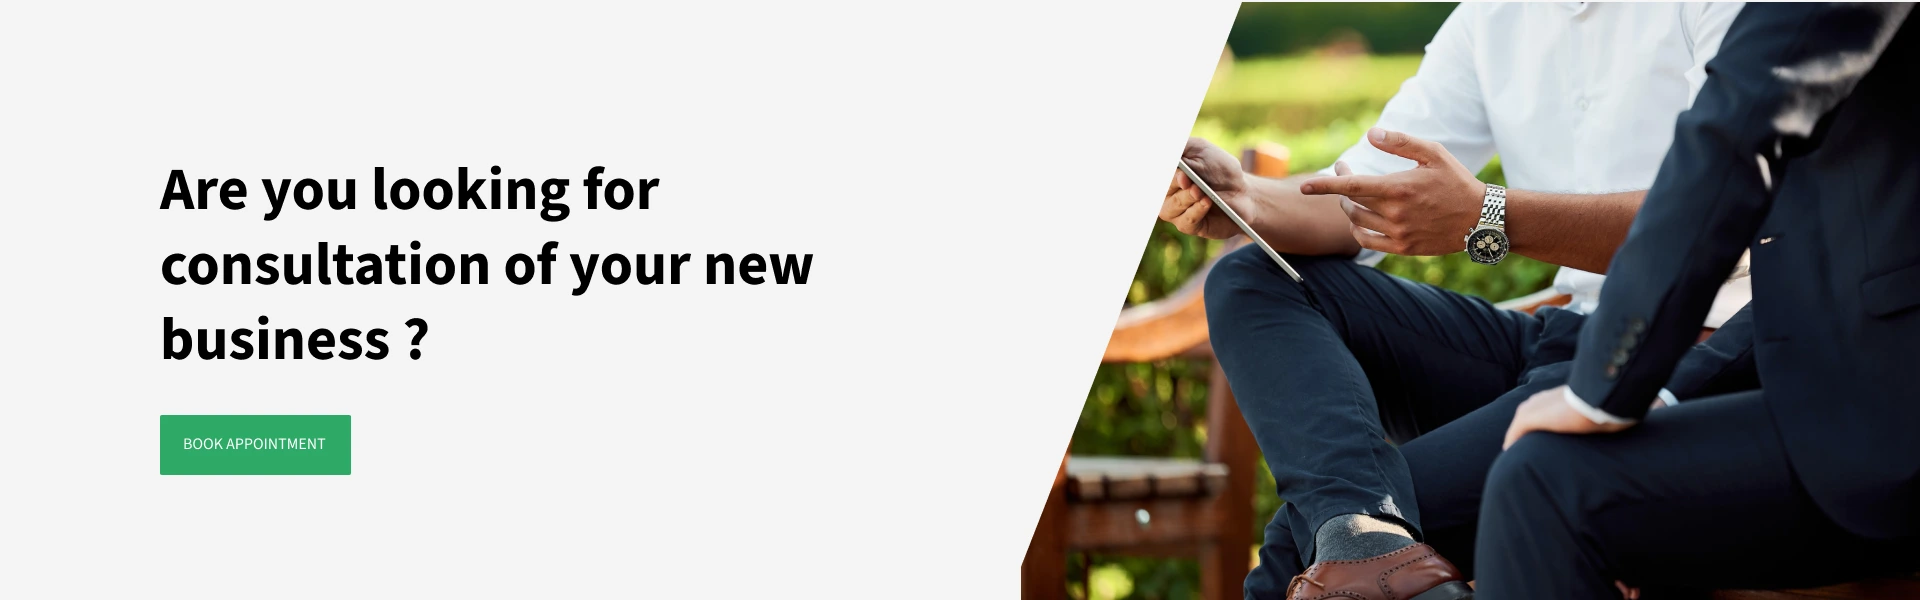
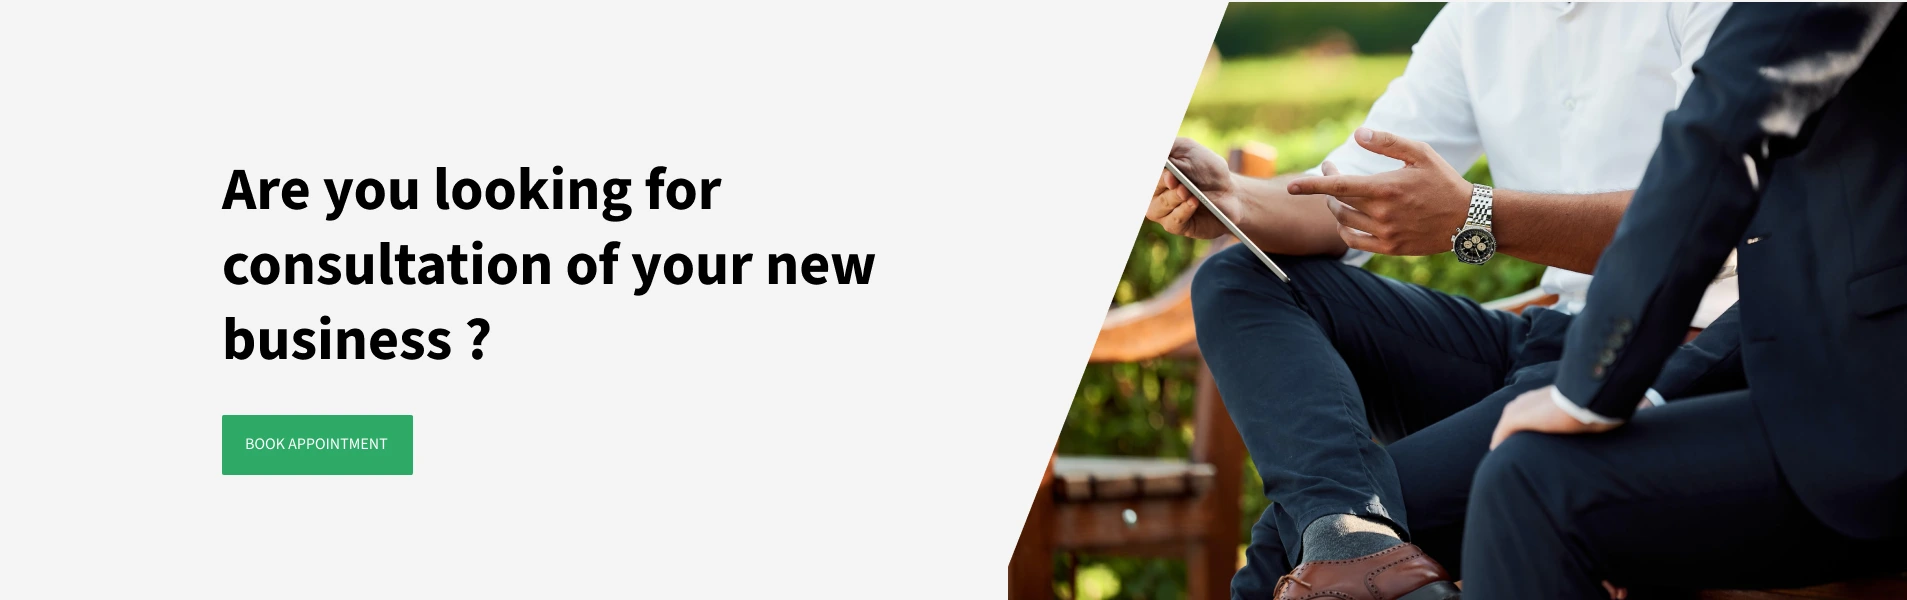
container width changes for above xxl screen

diff --git a/index.html b/index.html
@@ -46,7 +46,7 @@
                <div class="site-header__inner-wrapper d-flex justify-content-between align-items-center">
                   <div class="d-flex align-items-center">
                      <a href="index.html" class="d-inline-block site-header__logo me-4">
-                     <img src="images/logo.png" alt="logo" />
+                     <img src="images/logo.png" alt="logo" width="180"  height="71"/>
                      </a>
                   </div>
                   <!-- Main Navigation Menu -->
@@ -217,7 +217,7 @@
                   <div class="service-card-container">
                      <div class="service-card bg-white">
                         <div class="service-card__header">
-                           <img src="images/consultation.png" alt="">
+                           <img src="images/consultation.png" alt="" width="64" height="64">
                         </div>
                         <div class="service-card__body">
                            <h4 class="service-card__title mb-2"><a href="#" class="dark-link">Business Consulting</a></h4>
@@ -228,7 +228,7 @@
                   <div class="service-card-container">
                      <div class="service-card bg-white">
                         <div class="service-card__header">
-                           <img src="images/investor.png" alt="">
+                           <img src="images/investor.png" alt="" width="64" height="64">
                         </div>
                         <div class="service-card__body">
                            <h4 class="service-card__title mb-2"><a href="#" class="dark-link">Investment Advisor</a></h4>
@@ -239,7 +239,7 @@
                   <div class="service-card-container">
                      <div class="service-card bg-white">
                         <div class="service-card__header">
-                           <img src="images/tax.png" alt="">
+                           <img src="images/tax.png" alt="" width="64" height="64">
                         </div>
                         <div class="service-card__body">
                            <h4 class="service-card__title mb-2"><a href="#" class="dark-link">Tax Consultant</a></h4>
@@ -250,7 +250,7 @@
                   <div class="service-card-container">
                      <div class="service-card bg-white">
                         <div class="service-card__header">
-                           <img src="images/agreement.png" alt="">
+                           <img src="images/agreement.png" alt="" width="64" height="64">
                         </div>
                         <div class="service-card__body">
                            <h4 class="service-card__title mb-2"><a href="#" class="dark-link">Finance Consulting</a></h4>
@@ -261,7 +261,7 @@
                   <div class="service-card-container">
                      <div class="service-card bg-white">
                         <div class="service-card__header">
-                           <img src="images/insurance.png" alt="">
+                           <img src="images/insurance.png" alt="" width="64" height="64">
                         </div>
                         <div class="service-card__body">
                            <h4 class="service-card__title mb-2"><a href="#" class="dark-link">Insurance Adjuster</a></h4>
@@ -280,7 +280,7 @@
             <div class="container position-relative">
                <div class="row">
                   <div class="col-12 col-lg-6 mb-4 mb-lg-0">
-                    <img src="images/why-us-bg.webp" class="d-lg-none" alt="Why choose us">
+                    <img src="images/why-us-bg.webp" class="d-lg-none" alt="Why choose us" width="1920" height="1370">
                   </div>
                   <div class="col-12 col-lg-6 pt-3 pt-lg-0 ps-lg-5">
                      <h2 class="text-white fw-bold text-uppercase">Why Choose Us?</h2>
@@ -316,7 +316,7 @@
                      </div>
                   </div>
                   <div class="col-12 col-lg-6 bg-col">
-                     <img src="images/tax-consult-demo.webp" alt="">
+                     <img src="images/tax-consult-demo.webp" alt="" width="300" width="557">
                   </div>
                </div>
             </div>
@@ -335,7 +335,7 @@
                         <div class="testimonial-item shadow">
                            <div class="testimonial-item__header">
                               <div class="testimonial-item__profile d-inline-block rounded-circle overflow-hidden">
-                                 <img src="images/c-1.webp" alt="">
+                                 <img src="images/c-1.webp" alt="" width="100" height="100">
                               </div>
                            </div>
                            <div class="testimonial-item__body mt-2">
@@ -355,7 +355,7 @@
                         <div class="testimonial-item shadow">
                            <div class="testimonial-item__header">
                               <div class="testimonial-item__profile d-inline-block rounded-circle overflow-hidden">
-                                 <img src="images/c-2.webp" alt="">
+                                 <img src="images/c-2.webp" alt="" width="100" height="100">
                               </div>
                            </div>
                            <div class="testimonial-item__body mt-2">
@@ -382,7 +382,7 @@
             <div class="container">
                <div class="row align-items-center justify-content-center">
                   <div class="col-12 col-lg-8 col-xl-6 mb-4 mb-xl-0">
-                     <img src="images/faqs-img.webp" class="w-100" alt="">
+                     <img src="images/faqs-img.webp" class="w-100" alt="" width="640" height="640">
                   </div>
                   <div class="col-12 col-lg-8 col-xl-6 pt-2 pt-xl-0">
                      <div class="accordion-container mb-4 ps-xl-5 ps-xxl-4">

diff --git a/src/scss/layout/_footer.scss b/src/scss/layout/_footer.scss
@@ -260,6 +260,11 @@
         }
       }
     }
+    .site-footer__bottom {
+      .copyright-text {
+        font-size: 0.9375rem;
+      }
+    }
   }
 }
 @include media-breakpoint-up(xxl) {
@@ -324,6 +329,9 @@
             font-size: 1rem;
           }
         }
+      }
+      .copyright-text {
+        font-size: 1rem;
       }
     }
   }

diff --git a/src/scss/components/_form.scss b/src/scss/components/_form.scss
@@ -10,7 +10,7 @@
       .form__input {
         border: 1px solid $border-color;
         width: 100%;
-        padding: 1rem 1.25rem;
+        padding: 0.75rem 1rem;
         border-radius: 2px;
         color: $dark;
         font-size: 1rem;

diff --git a/src/scss/base/_reset.scss b/src/scss/base/_reset.scss
@@ -404,7 +404,7 @@ label.error {
 
 @media (min-width: 1700px) {
   .container-xxl, .container-xl, .container-lg, .container-md, .container-sm, .container {
-    max-width: 1600px;
+    max-width: 1480px;
   }
 }
 
